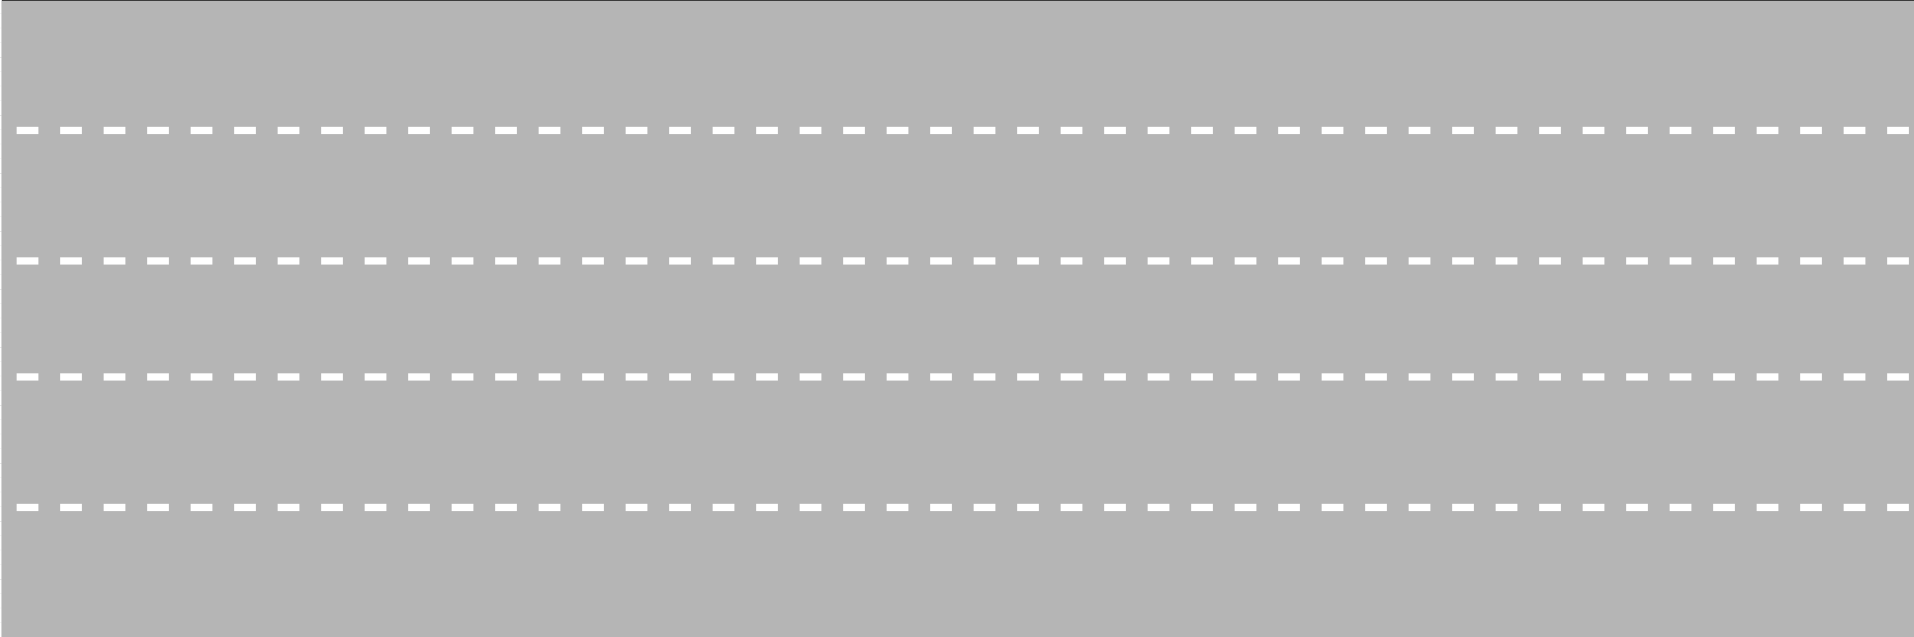
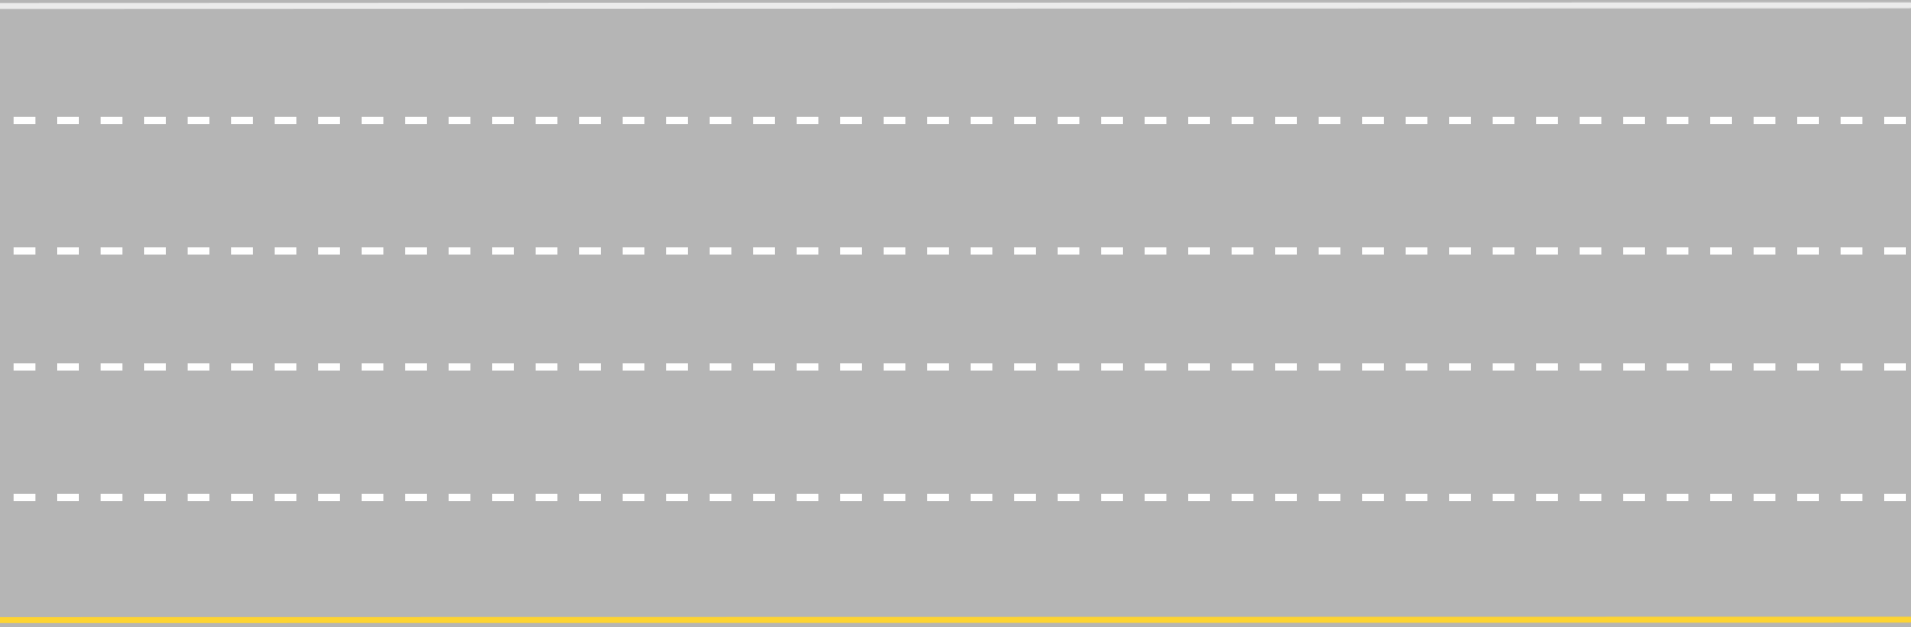
little twiks and changes

diff --git a/simulation/world/road.py b/simulation/world/road.py
@@ -5,11 +5,12 @@ from pygame.math import Vector2
 from pygame.surface import Surface
 
 class Road:
-    def __init__(self, startingNumberOfLanes : int, allLanesInRoad : list[list['Lane']], laneImages : list[Surface]):
+    def __init__(self, startingNumberOfLanes : int, allLanesInRoad : list[list['Lane']], laneImages : list[Surface], imagesPositions : list[list[int]]):
         self.allLanesInRoad = allLanesInRoad
         self.numberOfDirections = len(allLanesInRoad)
         self.currNumOfLanes = startingNumberOfLanes
         self.laneImages = laneImages
+        self.imagesPositions = imagesPositions
                
         
     def add_lane(self):
@@ -23,7 +24,7 @@ class Road:
             # TODO remove all vehicles on deleted lane
         
     def get_next_target_position(self, directionIndex : int, laneIndex : int, currentTargetPositionIndex : int) -> Vector2:
-        return self.allLanesInRoad[directionIndex][laneIndex].path[currentTargetPositionIndex + 1]
+        return self.allLanesInRoad[directionIndex][laneIndex].path[currentTargetPositionIndex + 1] #TODO maybe change +1 to take speed into consideration
 
     class Lane:
         def __init__(self, listOfCoordinates : list[Vector2]):
@@ -33,60 +34,62 @@ class Road:
         
 
 
-
 class RoadBuilder:
-    staticmethod
+    @staticmethod
     def create_road(roadName : str, startingNumberOfLanes=2) -> Road:
         if 'straight' in roadName:
             lanes = RoadBuilder.straight_road_read_lanes_from_file(startingNumberOfLanes)
-        elif 'curve' in roadName:
+        elif 'curved' in roadName:
             lanes # TODO implement new functions
         
-        images = RoadBuilder.load_lane_images(roadName)
-        return Road(startingNumberOfLanes, lanes, images)
+        images, imagesPos = RoadBuilder.load_lane_images(roadName)
+        return Road(startingNumberOfLanes, lanes, images, imagesPos)
         
         
-    staticmethod
+    @staticmethod
     def straight_road_read_lanes_from_file(startingNumberOfLanes : int) -> list[list[Road.Lane]]: # TODO implement and move to inheriting classes
         with open("jsons\\road.json", 'r') as file:
             data = json.load(file)
 
             road_data = data['straight_road']
-            if startingNumberOfLanes == 1:
-                lanes_data = road_data['one_lane']
-            else:
-                lanes_data = road_data['two_lanes']
+            lanes_data = road_data['lanes']
 
             lanes_direction_1 = []
             lanes_direction_2 = []
             
+            #TODO add a way to limit user - only 1 or 2 lanes in each direction
+            
             for idx, lane_coordinates in enumerate(lanes_data):
-                path = [Vector2(coord) for coord in lane_coordinates]
-                lane = Road.Lane(path)
+                if idx < 2 * startingNumberOfLanes:
+                    path = [Vector2(coord) for coord in lane_coordinates]
+                    lane = Road.Lane(path)
 
-                if idx % 2 != 0:
-                    lanes_direction_1.append(lane)
-                else:
-                    lanes_direction_2.append(lane)
+                    if idx % 2 != 0:
+                        lanes_direction_1.append(lane)
+                    else:
+                        lanes_direction_2.append(lane)
 
             return [lanes_direction_1, lanes_direction_2]
     
     
-    staticmethod
-    def load_lane_images(roadName : str) -> list[Surface]: # TODO implement and move to inheriting classes
+    @staticmethod
+    def load_lane_images(roadName : str) -> list[list]: # TODO implement and move to inheriting classes
         with open("jsons\\road.json", 'r') as file:
             data = json.load(file)
             if "straight" in roadName:
-                imagesPaths = data["straight_road"]["images_path"]
+                roadData = data["straight_road"]
             elif "curved" in roadName:
-                imagesPaths #TODO implement
+                roadData #TODO implement
             
+            imagesPaths = roadData["images_path"]
+            imagesScales = roadData["images_scales"]
+            imagesPos = roadData["image_pos"]
             images = []
-            for imagePath in imagesPaths:
-                images.append(pygame.image.load(imagePath)) #TODO add scale? if so, what scale            
-            return images
+            for index, imagePath in enumerate(imagesPaths):
+                images.append(pygame.transform.scale(pygame.image.load(imagePath), imagesScales[index])) #TODO add scale? if so, what scale            
+            return [images, imagesPos]
 
-
+            # pygame.transform.scale(pygame.image.load('carPictures\\redCar.png'), (25, 15))
 
 
 

diff --git a/simulation/vehicle/Vehicle.py b/simulation/vehicle/Vehicle.py
@@ -55,11 +55,11 @@ class Vehicle:
     def checkDistance(self, other_vehicles : list['Vehicle'], world: World, dataManager : DataManager):
         back_of_vehicle = self.location.x
         front_of_vehicle = self.location.x + self.length
-        minimal_distance = 10 + world.politeness * 10
+        minimal_distance = 10 + world.POLITENESS * 10
 
         for other_vehicle in other_vehicles:
             if self != other_vehicle:
-                if self.lane == other_vehicle.lane:
+                if self.laneIndex == other_vehicle.laneIndex:
                     back_of_other_vehicle = other_vehicle.location.x - 3
                     front_of_other_vehicle = other_vehicle.location.x + other_vehicle.length
                     # start of accidents detection
@@ -116,34 +116,35 @@ class Vehicle:
         Caculates and updates a vehicle's speed according to the road's conditions - traffic lights, hazards, etc.
         Then updates the vehicle's position based on its new speed
         """
-        # max_acceleration = 2  
-        # max_deceleration = -5 
+        max_acceleration = 2  
+        max_deceleration = -5 
 
-        # acceleration_factor = max_acceleration / self.weight
-        # deceleration_factor = max_deceleration / self.weight
+        acceleration_factor = max_acceleration / self.weight
+        deceleration_factor = max_deceleration / self.weight
 
-        # cruising_speed_factor = 0.5 #TODO: shouldn't be a literal but related to the next vehicle's speed
-        # cruising_speed = self.desiredSpeed * cruising_speed_factor
+        cruising_speed_factor = 0.5 #TODO: shouldn't be a literal but related to the next vehicle's speed
+        cruising_speed = self.desiredSpeed * cruising_speed_factor
 
-        # clear_space_ahead = self.checkDistance(other_vehicles, world, dataManager)
-        # if clear_space_ahead:
-        #     acceleration_speed = PixelsConverter.convert_speed_to_pixels_per_frames(acceleration_factor)
-        #     if self.speed + acceleration_speed <= self.desiredSpeed:
-        #         self.speed += acceleration_speed
-        #     else:
-        #         self.speed = self.desiredSpeed
-        # else:
-        #     if self.inAccident == True:
-        #         self.speed = 0
-        #     else:
-        #         if self.speed > cruising_speed:
-        #             deceleration_speed = PixelsConverter.convert_speed_to_pixels_per_frames(deceleration_factor)
-        #             if self.speed + deceleration_speed > cruising_speed:
-        #                 self.speed += deceleration_speed
-        #             else:
-        #                 self.speed = cruising_speed
-        #         else:
-        #             self.speed = cruising_speed
+        #clear_space_ahead = self.checkDistance(other_vehicles, world, dataManager)
+        #if clear_space_ahead:
+        if True: #TODO DONT FORGET TO REMOVE THIS SHIT!!
+            acceleration_speed = PixelsConverter.convert_speed_to_pixels_per_frames(acceleration_factor)
+            if self.speed + acceleration_speed <= self.desiredSpeed:
+                self.speed += acceleration_speed
+            else:
+                self.speed = self.desiredSpeed
+        else:
+            if self.inAccident == True:
+                self.speed = 0
+            else:
+                if self.speed > cruising_speed:
+                    deceleration_speed = PixelsConverter.convert_speed_to_pixels_per_frames(deceleration_factor)
+                    if self.speed + deceleration_speed > cruising_speed:
+                        self.speed += deceleration_speed
+                    else:
+                        self.speed = cruising_speed
+                else:
+                    self.speed = cruising_speed
         
         nextTargetPosition = road.get_next_target_position(self.directionIndex, self.laneIndex, self.targetPositionIndex)
         self.update_vehicle_location(nextTargetPosition, self.speed) # TODO add target position somehow

diff --git a/main.py b/main.py
@@ -33,17 +33,17 @@ next_stat_update = pygame.time.get_ticks() + dataManager.export_interval * 1000 
 
 while simulationRunning:
     screen.fill(simulationWorld.WHITE)
-    #TODO put road on screen
+    screen.blit(road.laneImages[road.currNumOfLanes * 2 - 1], road.imagesPositions[road.currNumOfLanes * 2 - 1]) #TODO renove this late, this is for testing only
     
-    vehiclesManager.add_vehicles(road.allLanesInRoad, simulationWorld)
+    vehiclesManager.add_vehicles(road.allLanesInRoad, simulationWorld) #TODO check why this doesnt work
     updateCarPos(vehiclesManager.vehicles, simulationWorld, dataManager)
     VehicleDrawer.draw_vehicles(vehiclesManager.vehicles, screen)
     vehiclesManager.remove_vehicles(road.allLanesInRoad)
 
-    # current_time = pygame.time.get_ticks()
-    # if current_time >= next_stat_update:
-    #     dataManager.update_stats(vehiclesManager.vehicles)
-    #     next_stat_update = current_time + dataManager.export_interval * 1000
+    current_time = pygame.time.get_ticks()
+    if current_time >= next_stat_update:
+        dataManager.update_stats(vehiclesManager.vehicles)
+        next_stat_update = current_time + dataManager.export_interval * 1000
 
     for event in pygame.event.get():
         if event.type == pygame.QUIT:
